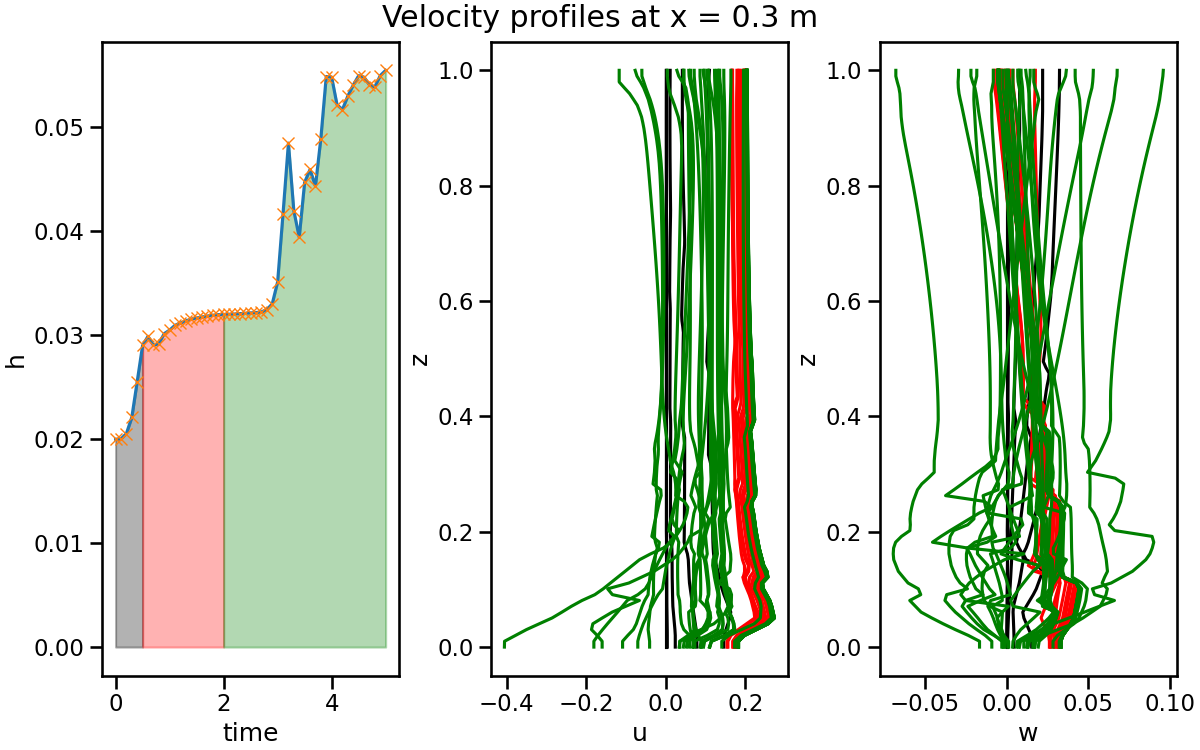
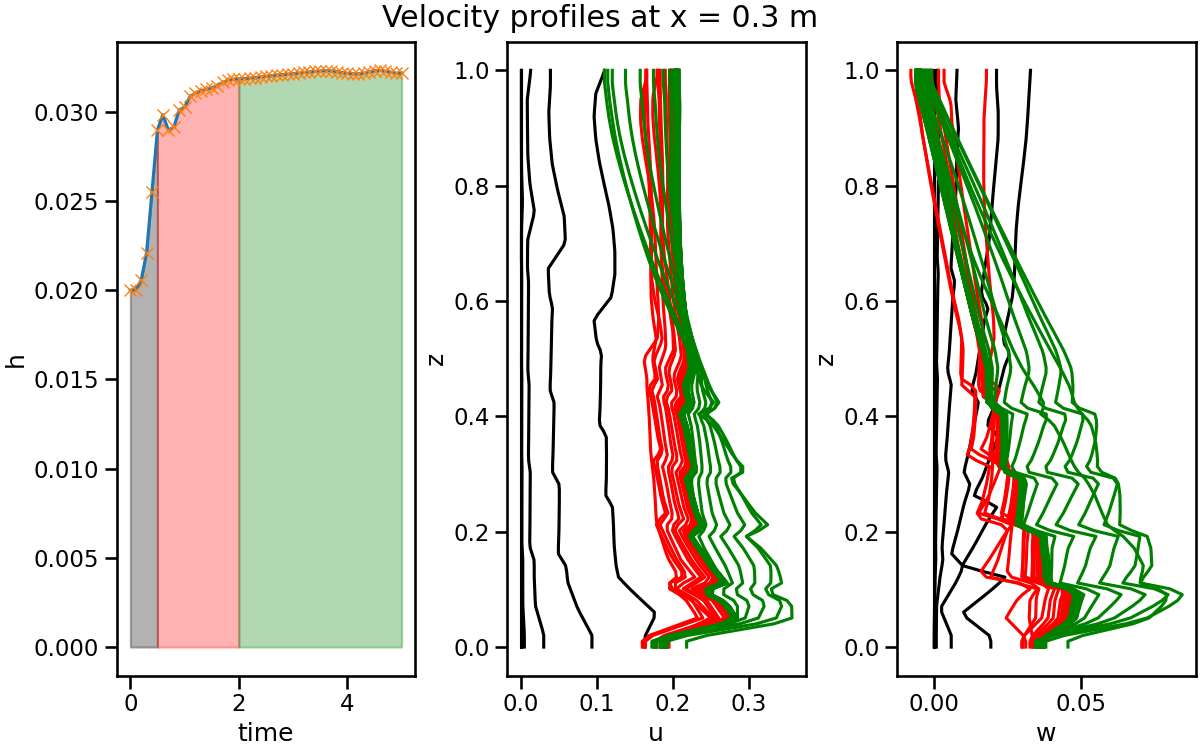
revisit ijrewhs results

diff --git a/library/model/models/shallow_moments.py b/library/model/models/shallow_moments.py
@@ -702,6 +702,22 @@ class ShallowMoments(Model):
                 out[1+k] += -p.nu/h * ha[i]  / h * self.basis.D[i, k]/ self.basis.M[k, k]
         return out
 
+    def newtonian_boundary_layer(self):
+        assert "nu" in vars(self.parameters)
+        out = Matrix([0 for i in range(self.n_fields)])
+        h = self.variables[0]
+        h = self.variables[0]
+        ha = self.variables[1:1+self.levels+1]
+        p = self.parameters
+        phi_0 = [self.basis.basis.eval(i, 0.) for i in range(self.levels+1)]
+        dphidx_0 = [(diff(self.basis.basis.eval(i, x), x)).subs(x, 0.) for i in range(self.levels+1)]
+        z_boundary_layer = 0.1
+        for k in range(1+self.levels):
+            for i in range(1+self.levels):
+                #out[1+k] += -p.nu / h * ha[i] / h / self.basis.M[k, k] * phi_0[k] * dphidx_0[i]
+                out[1+k] += -p.nu / h * ha[i] / h / self.basis.M[k, k] / z_boundary_layer
+        return out
+
     def slip(self):
         """
         :gui:
@@ -1148,6 +1164,23 @@ class ShallowMoments2d(Model):
             for i in range(1+self.levels):
                 out[1+k] += -p.nu/h * ha[i]  / h * self.basis.D[i, k]/ self.basis.M[k, k]
                 out[1+k+offset] += -p.nu/h * hb[i]  / h * self.basis.D[i, k]/ self.basis.M[k, k]
+        return out
+
+    def newtonian_boundary_layer(self):
+        assert "nu" in vars(self.parameters)
+        out = Matrix([0 for i in range(self.n_fields)])
+        offset = self.levels+1
+        h = self.variables[0]
+        h = self.variables[0]
+        ha = self.variables[1:1+self.levels+1]
+        hb = self.variables[1+offset:1+self.levels+1+offset]
+        p = self.parameters
+        phi_0 = [self.basis.eval(i, 0.) for i in range(self.levels+1)]
+        dphidx_0 = [(diff(self.basis.eval(i, x), x)).subs(x, 0.) for i in range(self.levels+1)]
+        for k in range(1+self.levels):
+            for i in range(1+self.levels):
+                out[1+k] += -p.nu / h * ha[i] / h / self.basis.M[k, k] * phi_0[k] * dphidx_0[i]
+                out[1+k+offset] += -p.nu / h  * hb[i]  / h / self.basis.M[k, k]* phi_0[k] * dphidx_0[i]
         return out
 
 

diff --git a/docs/problems/code_11_ijshs.py b/docs/problems/code_11_ijshs.py
@@ -208,11 +208,13 @@ def shear_at_bottom_moments_FD(Q, dz=0.05):
 
 def sync_timelines(Q1, T1, Q2, T2, fixed_order = False):
     if (T1.shape[0] > T2.shape[0]) or (fixed_order):
+        b_first=True
         Tlarge = T1
         Tsmall = T2
         Qlarge = Q1
         Qsmall = Q2
     else:
+        b_first=False
         Tlarge = T2
         Tsmall = T1
         Qlarge = Q2
@@ -228,7 +230,7 @@ def sync_timelines(Q1, T1, Q2, T2, fixed_order = False):
                 Qinterp[:, i, j] = np.interp(Tsmall, Tlarge, Qlarge[:, i, j])
     else:
         assert False
-    return Tsmall, Qinterp, Qsmall
+    return Tsmall, Qinterp, Qsmall, b_first
 
 def compute_error_over_h_and_u(Q1, Q2, T1, T2 , z, dx):
     """
@@ -236,7 +238,7 @@ def compute_error_over_h_and_u(Q1, Q2, T1, T2 , z, dx):
     ERROR: Does not work. I do not have openfoam data at each spatial position
     ATTENTION: I assume Q are primary variables
     """
-    T, q1, q2, b_first = sync_timelines(Q1, Q2, T1, T2, swap=False)
+    T, q1, q2, b_first = sync_timelines(Q1, Q2, T1, T2, fixed_order=False)
     level = q1.shape[1]-1
     basis_analytical =Legendre_shifted(order=level)
     basis = np.zeros((level+1, z.shape[0]), dtype=float)
@@ -263,7 +265,7 @@ def compute_error_over_h_and_u(Q1, Q2, T1, T2 , z, dx):
         
 
 def compute_error(m_smm, t_smm, m_of, t_of, z):
-    T, M1, M2, b_first = sync_timelines(m_of, t_of, m_smm, t_smm, swap=True)
+    T, M1, M2, b_first = sync_timelines(m_of, t_of, m_smm, t_smm, fixed_order=True)
     if b_first:
         m_of = M1
         m_smm = M2
